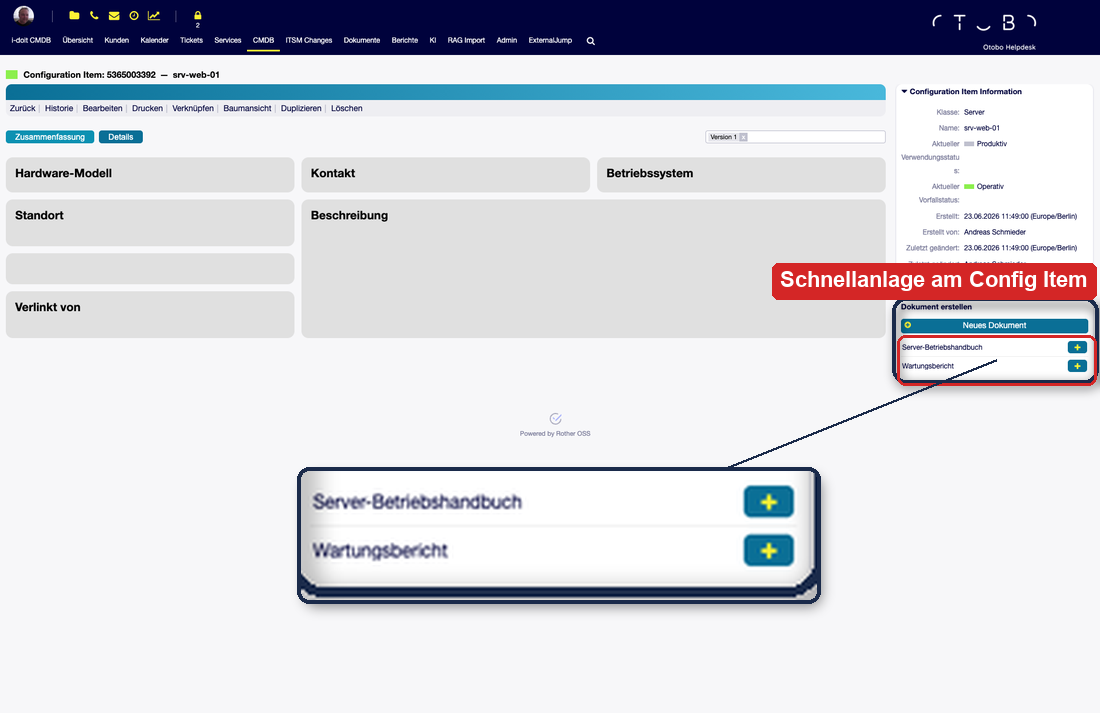
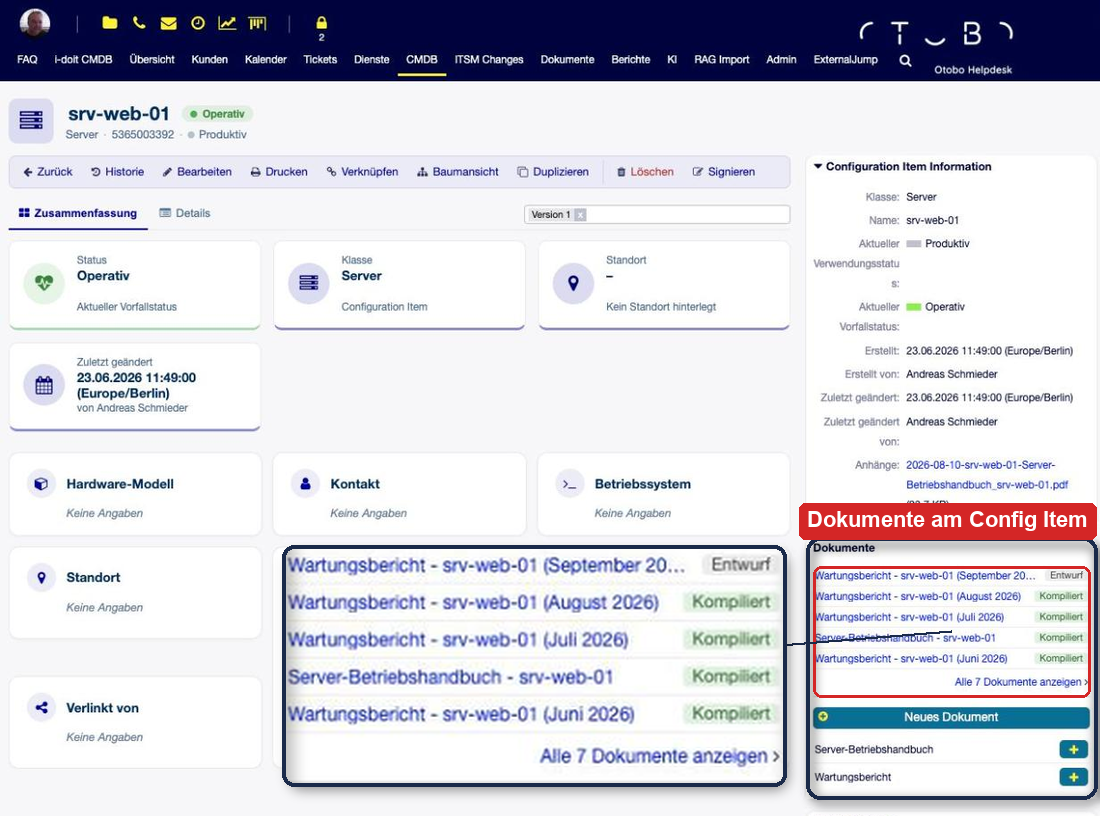
documents: config item widget lists its documents, filtered overview

diff --git a/documents/searchindex.js b/documents/searchindex.js
@@ -1,1 +1,1 @@
-Search.setIndex({"alltitles":{"Admin-Handbuch":[[0,"admin-handbuch"]],"Anwender-Handbuch":[[0,"anwender-handbuch"]],"Berechtigungen und Gruppen":[[0,"berechtigungen-und-gruppen"]],"Beschreibung":[[0,"beschreibung"]],"Einsatzszenarien":[[0,"einsatzszenarien"]],"Framework":[[0,"framework"]],"Installation":[[0,"installation"]],"Kapitel-Editor":[[0,"kapitel-editor"]],"Kategorien verwalten":[[0,"kategorien-verwalten"]],"Kompilieren und Revisionen":[[0,"kompilieren-und-revisionen"]],"Konfiguration":[[0,"konfiguration"]],"Navigation und Dokument\u00fcbersicht":[[0,"navigation-und-dokumentubersicht"]],"Neues Dokument anlegen":[[0,"neues-dokument-anlegen"]],"OTOBO Documents":[[0,null]],"PDF-Erzeugung mit WeasyPrint":[[0,"pdf-erzeugung-mit-weasyprint"]],"Pakete":[[0,"pakete"]],"Platzhalter-Referenz":[[0,"platzhalter-referenz"]],"Platzhalter-System":[[0,"platzhalter-system"]],"Referenz":[[0,"referenz"]],"Schnellanlage aus dem Config Item":[[0,"schnellanlage-aus-dem-config-item"]],"Software von Drittanbietern":[[0,"software-von-drittanbietern"]],"Standard-CI-Klassen zuordnen":[[0,"standard-ci-klassen-zuordnen"]],"Systemvoraussetzungen":[[0,"systemvoraussetzungen"]],"Vorlage anlegen und bearbeiten":[[0,"vorlage-anlegen-und-bearbeiten"]],"Vorschau und PDF-Export":[[0,"vorschau-und-pdf-export"]],"Vorschau und Seitenf\u00fchrung im Editor":[[0,"vorschau-und-seitenfuhrung-im-editor"]],"Zugriff auf die Vorlagenverwaltung":[[0,"zugriff-auf-die-vorlagenverwaltung"]],"\u00dcber":[[0,"uber"]],"\u00dcberblick":[[0,"uberblick"]]},"docnames":["content/index"],"envversion":{"sphinx":66,"sphinx.domains.c":3,"sphinx.domains.changeset":1,"sphinx.domains.citation":1,"sphinx.domains.cpp":9,"sphinx.domains.index":1,"sphinx.domains.javascript":3,"sphinx.domains.math":2,"sphinx.domains.python":4,"sphinx.domains.rst":2,"sphinx.domains.std":2},"filenames":["content/index.rst"],"indexentries":{},"objects":{},"objnames":{},"objtypes":{},"terms":{"Aus":0,"Bei":0,"Das":0,"Den":0,"Der":0,"Die":0,"Diese":0,"Dieser":0,"Dieses":0,"Ein":0,"Eine":0,"Er":0,"Es":0,"Hier":0,"Im":0,"In":0,"Mit":0,"Nach":0,"Sie":0,"So":0,"Wege":0,"Zur":0,"a4":0,"abbruch":0,"abgeleit":0,"abhang":0,"abnahmeprotokoll":0,"abschnitt":0,"addon":0,"administrator":0,"agent":0,"aktion":0,"aktiv":0,"aktull":0,"all":0,"allgemein":0,"alt":0,"alternativ":0,"and":0,"andert":0,"anfass":0,"anfrag":0,"angebund":0,"angelegt":0,"angemeld":0,"anlagemask":0,"anschluss":0,"ansicht":0,"anzeig":0,"anzuleg":0,"api":0,"app":0,"ass":0,"attribut":0,"auffall":0,"aufgebaut":0,"aufgeklappt":0,"aufgelost":0,"aufruf":0,"ausblend":0,"ausdruck":0,"ausgab":0,"ausgegeb":0,"ausgewahlt":0,"ausruck":0,"ausschliess":0,"auswahl":0,"auswahlbar":0,"auswahlbaum":0,"auto":0,"automat":0,"b":0,"backspac":0,"basis":0,"baum":0,"baumhierarchi":0,"baut":0,"befull":0,"beginnt":0,"begrenzt":0,"beim":0,"beispiel":0,"beispieldat":0,"benutzerdefiniert":0,"berechn":0,"bereich":0,"bereit":0,"bereitgestellt":0,"beschrankt":0,"beschreibt":0,"besteh":0,"besteht":0,"betrieb":0,"betriebshandbuch":0,"bevor":0,"biet":0,"bild":0,"bind":0,"bleib":0,"bleibt":0,"blend":0,"breadcrumb":0,"brows":0,"button":0,"byt":0,"bzw":0,"cach":0,"cachettl":0,"changed":0,"check":0,"checkbox":0,"chips":0,"ci00012345":0,"city":0,"ckeditor":0,"class":0,"cm":0,"cmd":0,"cmdb":0,"co":0,"compil":0,"configit":0,"configuration":0,"consol":0,"consulting":0,"contact":0,"contactemail":0,"contactphon":0,"contain":0,"corporat":0,"country":0,"created":0,"curdeplstat":0,"curincistat":0,"custom":0,"customercompanynam":0,"customerid":0,"customerus":0,"dabei":0,"darauf":0,"daraus":0,"dargestellt":0,"dat":0,"databas":0,"dateinam":0,"datengetrieb":0,"datenlag":0,"datenquell":0,"datetim":0,"datum":0,"dauerhaft":0,"day":0,"de":0,"deaktiviert":0,"deckblatt":0,"definiert":0,"demodat":0,"deren":0,"detailansicht":0,"dien":0,"direkt":0,"dock":0,"documents_adm":0,"dokumentenmanagement":0,"dokumentfeld":0,"dokumentvorlag":0,"doppelt":0,"down":0,"download":0,"drag":0,"drei":0,"drill":0,"drop":0,"duplizi":0,"durchklick":0,"durchsuch":0,"dynam":0,"eben":0,"echt":0,"editierbar":0,"einfach":0,"einfug":0,"eingab":0,"eingebett":0,"eingebund":0,"eingefugt":0,"eingericht":0,"einheit":0,"einmalig":0,"einricht":0,"einruck":0,"einsetz":0,"einstell":0,"einstieg":0,"eintrag":0,"einzig":0,"email":0,"empfiehlt":0,"ent":0,"entfern":0,"enthalt":0,"entsteh":0,"entsteht":0,"entwurf":0,"erb":0,"erfolgt":0,"ergeb":0,"ergibt":0,"erhalt":0,"erkennbar":0,"erneut":0,"erreichbar":0,"erreicht":0,"erschein":0,"erscheint":0,"ersetzt":0,"erst":0,"erstell":0,"erstellt":0,"erwart":0,"erweitert":0,"erzeugt":0,"esc":0,"etwa":0,"existiert":0,"exporti":0,"extern":0,"f2":0,"fall":0,"fallt":0,"fancytre":0,"farbig":0,"fassung":0,"fehlerhaft":0,"feld":0,"feldnam":0,"fenst":0,"field":0,"filterfeld":0,"find":0,"folgend":0,"folgt":0,"frag":0,"frei":0,"freicon":0,"freitext":0,"frontend":0,"fruh":0,"funktion":0,"funktioniert":0,"fur":0,"fusszeil":0,"geandert":0,"gekennzeichn":0,"gemeinsam":0,"gemeld":0,"genau":0,"genutzt":0,"geoffn":0,"gepflegt":0,"gepunkt":0,"gerendert":0,"geschweift":0,"gespeichert":0,"geteilt":0,"gewahlt":0,"gilt":0,"gleichzeit":0,"gliedert":0,"gmbh":0,"greif":0,"gultig":0,"gultigkeitspruf":0,"hauptkapitel":0,"hauptmenupunkt":0,"health":0,"heb":0,"heraus":0,"herstell":0,"herunt":0,"hierarch":0,"hierarchi":0,"hinterlegt":0,"hinweg":0,"hinzufug":0,"hochlad":0,"hochwert":0,"html":0,"http":0,"https":0,"id":0,"imm":0,"inhalt":0,"inhaltsverzeichnis":0,"inklusiv":0,"inlin":0,"install":0,"installi":0,"installiert":0,"int":0,"integration":0,"inventarbericht":0,"iso":0,"itsmconfigurationmanagement":0,"je":0,"jed":0,"jeweil":0,"kachel":0,"kapitelbaum":0,"kapitelinhalt":0,"kapitelstruktur":0,"karlsruh":0,"katalog":0,"kategoriebaum":0,"kern":0,"kg":0,"klamm":0,"klappmenu":0,"klassendefinition":0,"klassennam":0,"klein":0,"klick":0,"kodiert":0,"komfortabel":0,"komm":0,"kommentar":0,"kompilier":0,"kompiliert":0,"konkr":0,"konsistent":0,"konsol":0,"kontakt":0,"kopf":0,"kopi":0,"kund":0,"kundenbenutz":0,"kundendat":0,"lad":0,"ladt":0,"lass":0,"lasst":0,"laufend":0,"layout":0,"lebend":0,"lebensdau":0,"ledig":0,"liberation":0,"link":0,"list":0,"liv":0,"local":0,"localhost":0,"location":0,"logo":0,"long":0,"losch":0,"lost":0,"mach":0,"management":0,"manull":0,"markiert":0,"max":0,"maximal":0,"maxreferencedepth":0,"mehr":0,"mehrfachauswahl":0,"meta":0,"modul":0,"momentaufnahm":0,"monitos":0,"month":0,"monthnam":0,"must":0,"musterfirma":0,"mustermann":0,"musterstrass":0,"nachd":0,"nachgelad":0,"nachvollziehbar":0,"nachweis":0,"nam":0,"name_revn":0,"namespac":0,"notation":0,"numb":0,"numm":0,"nummerier":0,"nutz":0,"n\u00e4chster":0,"oben":0,"oberst":0,"objekt":0,"offn":0,"ohn":0,"opm":0,"optional":0,"organisation":0,"otoboversion":0,"packag":0,"pagecount":0,"pagenumb":0,"paketmanag":0,"paketverwalt":0,"passend":0,"passt":0,"pdfs":0,"per":0,"pfleg":0,"pflegbar":0,"pflegt":0,"pflichtfeld":0,"pick":0,"pickerexcludefield":0,"pl":0,"placehold":0,"previewdata":0,"pro":0,"produktiv":0,"professionell":0,"projektgeschaft":0,"prufung":0,"punkt":0,"rand":0,"recht":0,"referencetolocation":0,"referenzkett":0,"regular":0,"rein":0,"reit":0,"rendert":0,"revisionssich":0,"richt":0,"roh":0,"s":0,"san":0,"schliess":0,"schlussel":0,"schon":0,"schreib":0,"schreibgeschutzt":0,"schrift":0,"schriftbild":0,"schrittweis":0,"schulung":0,"seit":0,"seitenaufteil":0,"seitenlayout":0,"seitenleist":0,"seitenumbruch":0,"seitenzahl":0,"sekund":0,"selb":0,"serv":0,"serverseit":0,"servic":0,"servicehandbuch":0,"setting":0,"setzt":0,"sichtbar":0,"sieh":0,"simuli":0,"sitzung":0,"sodass":0,"solang":0,"sollt":0,"sorti":0,"sowi":0,"sowohl":0,"spalt":0,"spat":0,"speich":0,"srv":0,"stamm":0,"stand":0,"standardisi":0,"standardisiert":0,"standardmass":0,"standort":0,"startseit":0,"statisch":0,"statt":0,"status":0,"statusspalt":0,"steckbrief":0,"steh":0,"steuer":0,"steuerbar":0,"steuert":0,"street":0,"strg":0,"strukturi":0,"strukturiert":0,"such":0,"syntax":0,"sysconf":0,"tab":0,"tabell":0,"tast":0,"team":0,"text":0,"textfeld":0,"tief":0,"tim":0,"timeout":0,"tipp":0,"titel":0,"titl":0,"ubergab":0,"ubergabeprotokoll":0,"ubergeb":0,"ubernehm":0,"uberschrieb":0,"uberschrift":0,"ubersicht":0,"umbenenn":0,"umgeb":0,"ungespeichert":0,"ungult":0,"unt":0,"unterkapitel":0,"unterkategori":0,"unterstutzt":0,"unverand":0,"url":0,"us":0,"useremail":0,"userfirstnam":0,"userfullnam":0,"userlastnam":0,"userlogin":0,"usermobil":0,"userphon":0,"utf":0,"verantwort":0,"verfolg":0,"verfug":0,"verfugbar":0,"vergeb":0,"verkett":0,"verknupft":0,"verlass":0,"verpflicht":0,"verschachtelungstief":0,"verschieb":0,"verschied":0,"versionier":0,"versioniert":0,"verteilt":0,"vervollstand":0,"verwaist":0,"verweis":0,"verwend":0,"vollstand":0,"voraus":0,"vorbefullt":0,"vorbelegt":0,"vorbereit":0,"vorgeschlag":0,"vorhand":0,"vorlagenbasiert":0,"vorlageneditor":0,"vorlagenlist":0,"vorlagennam":0,"vorlagentabell":0,"vorlagenubersicht":0,"wahlt":0,"wahrend":0,"warnung":0,"wartung":0,"wartungsbericht":0,"web":0,"wechselt":0,"weekday":0,"weiterhin":0,"wenig":0,"werd":0,"werkzeugleist":0,"wert":0,"widg":0,"wiederkehr":0,"woll":0,"word":0,"wurd":0,"wurzel":0,"wurzelkategori":0,"wysiwyg":0,"x":0,"year":0,"z":0,"zahl":0,"zeich":0,"zeil":0,"zentral":0,"zieh":0,"zip":0,"zugehor":0,"zugeordnet":0,"zuletzt":0,"zuordnung":0,"zurst":0,"zuruck":0,"zusatz":0,"zustand":0,"zwei":0,"zwingend":0,"zwisch":0,"zwischengespeichert":0,"\u00c4nderungen":0},"titles":["OTOBO Documents"],"titleterms":{"admin":0,"anleg":0,"anwend":0,"bearbeit":0,"berecht":0,"beschreib":0,"ci":0,"config":0,"document":0,"dokument":0,"dokumentubersicht":0,"drittanbiet":0,"editor":0,"einsatzszenari":0,"erzeug":0,"export":0,"framework":0,"grupp":0,"handbuch":0,"installation":0,"item":0,"kapitel":0,"kategori":0,"klass":0,"kompili":0,"konfiguration":0,"navigation":0,"neu":0,"otobo":0,"pak":0,"pdf":0,"platzhalt":0,"referenz":0,"revision":0,"schnellanlag":0,"seitenfuhr":0,"softwar":0,"standard":0,"system":0,"systemvoraussetz":0,"uber":0,"uberblick":0,"verwalt":0,"vorlag":0,"vorlagenverwalt":0,"vorschau":0,"weasyprint":0,"zugriff":0,"zuordn":0}})
+Search.setIndex({"alltitles":{"Admin-Handbuch":[[0,"admin-handbuch"]],"Anwender-Handbuch":[[0,"anwender-handbuch"]],"Berechtigungen und Gruppen":[[0,"berechtigungen-und-gruppen"]],"Beschreibung":[[0,"beschreibung"]],"Dokumente am Config Item":[[0,"dokumente-am-config-item"]],"Einsatzszenarien":[[0,"einsatzszenarien"]],"Framework":[[0,"framework"]],"Installation":[[0,"installation"]],"Kapitel-Editor":[[0,"kapitel-editor"]],"Kategorien verwalten":[[0,"kategorien-verwalten"]],"Kompilieren und Revisionen":[[0,"kompilieren-und-revisionen"]],"Konfiguration":[[0,"konfiguration"]],"Navigation und Dokument\u00fcbersicht":[[0,"navigation-und-dokumentubersicht"]],"Neues Dokument anlegen":[[0,"neues-dokument-anlegen"]],"OTOBO Documents":[[0,null]],"PDF-Erzeugung mit WeasyPrint":[[0,"pdf-erzeugung-mit-weasyprint"]],"Pakete":[[0,"pakete"]],"Platzhalter-Referenz":[[0,"platzhalter-referenz"]],"Platzhalter-System":[[0,"platzhalter-system"]],"Referenz":[[0,"referenz"]],"Software von Drittanbietern":[[0,"software-von-drittanbietern"]],"Standard-CI-Klassen zuordnen":[[0,"standard-ci-klassen-zuordnen"]],"Systemvoraussetzungen":[[0,"systemvoraussetzungen"]],"Vorlage anlegen und bearbeiten":[[0,"vorlage-anlegen-und-bearbeiten"]],"Vorschau und PDF-Export":[[0,"vorschau-und-pdf-export"]],"Vorschau und Seitenf\u00fchrung im Editor":[[0,"vorschau-und-seitenfuhrung-im-editor"]],"Zugriff auf die Vorlagenverwaltung":[[0,"zugriff-auf-die-vorlagenverwaltung"]],"\u00dcber":[[0,"uber"]],"\u00dcberblick":[[0,"uberblick"]]},"docnames":["content/index"],"envversion":{"sphinx":66,"sphinx.domains.c":3,"sphinx.domains.changeset":1,"sphinx.domains.citation":1,"sphinx.domains.cpp":9,"sphinx.domains.index":1,"sphinx.domains.javascript":3,"sphinx.domains.math":2,"sphinx.domains.python":4,"sphinx.domains.rst":2,"sphinx.domains.std":2},"filenames":["content/index.rst"],"indexentries":{},"objects":{},"objnames":{},"objtypes":{},"terms":{"Aus":0,"Bei":0,"Damit":0,"Das":0,"Den":0,"Der":0,"Die":0,"Diese":0,"Dieser":[],"Dieses":0,"Ein":0,"Eine":0,"Er":0,"Es":0,"Hier":0,"Ihrem":0,"Im":0,"In":0,"Mit":0,"Nach":0,"Sie":0,"Sind":0,"So":[],"Weg":0,"Wege":0,"Zur":0,"a4":0,"abbruch":0,"abgeleit":0,"abhang":0,"abnahmeprotokoll":0,"abschnitt":0,"addon":0,"administrator":0,"agent":0,"aktion":0,"aktiv":0,"aktull":0,"all":0,"allgemein":0,"alt":0,"alternativ":0,"and":0,"andert":0,"anfass":0,"anfrag":0,"angebund":0,"angelegt":0,"angemeld":0,"anlag":0,"anlagemask":0,"anschluss":0,"ansicht":0,"anzeig":0,"anzuleg":0,"api":0,"app":0,"ass":0,"attribut":0,"auffall":0,"aufgebaut":0,"aufgeklappt":0,"aufgelost":0,"aufgesetzt":0,"aufruf":0,"ausblend":0,"ausdruck":0,"ausgab":0,"ausgegeb":0,"ausgewahlt":0,"ausruck":0,"ausschliess":0,"auswahl":0,"auswahlbar":0,"auswahlbaum":0,"auto":0,"automat":0,"b":0,"backspac":0,"basis":0,"baum":0,"baumhierarchi":0,"baut":0,"beantwort":0,"befull":0,"beginnt":0,"begrenzt":0,"beid":0,"beim":0,"beispiel":0,"beispieldat":0,"benutzerdefiniert":0,"berechn":0,"bereich":0,"bereit":0,"bereitgestellt":0,"beschrankt":0,"beschreibt":0,"besteh":0,"besteht":0,"betrieb":0,"betriebshandbuch":0,"bevor":0,"biet":0,"bild":0,"bind":0,"bleib":0,"bleibt":0,"blend":0,"blick":0,"breadcrumb":0,"brows":0,"button":0,"byt":0,"bzw":0,"cach":0,"cachettl":0,"changed":0,"check":0,"checkbox":0,"chips":0,"ci00012345":0,"city":0,"ciwidg":0,"ckeditor":0,"class":0,"cm":0,"cmd":0,"cmdb":0,"co":0,"compil":0,"configit":0,"configuration":0,"consol":0,"consulting":0,"contact":0,"contactemail":0,"contactphon":0,"contain":0,"corporat":0,"country":0,"created":0,"curdeplstat":0,"curincistat":0,"custom":0,"customercompanynam":0,"customerid":0,"customerus":0,"dabei":0,"darauf":0,"daraus":0,"dargestellt":0,"darunt":0,"dasselb":0,"dat":0,"databas":0,"dateinam":0,"datengetrieb":0,"datenlag":0,"datenquell":0,"datetim":0,"datum":0,"dauerhaft":0,"day":0,"de":0,"deaktiviert":0,"deckblatt":0,"definiert":0,"demodat":0,"deren":0,"detailansicht":0,"dien":0,"direkt":0,"dock":0,"documents_adm":0,"dokumentenmanagement":0,"dokumentfeld":0,"dokumentvorlag":0,"doppelt":0,"down":0,"download":0,"drag":0,"drei":0,"drill":0,"drop":0,"duplizi":0,"durchklick":0,"durchsuch":0,"dynam":0,"eben":0,"echt":0,"editierbar":0,"einfach":0,"einfug":0,"eingab":0,"eingebett":0,"eingebund":0,"eingefugt":0,"eingericht":0,"einheit":0,"einmalig":0,"einricht":0,"einruck":0,"einsetz":0,"einstell":0,"einstellbar":0,"einstieg":0,"eintrag":0,"einzig":0,"email":0,"empfiehlt":0,"ent":0,"entfern":0,"enthalt":0,"entsteh":0,"entsteht":0,"entwurf":0,"erb":0,"erfolgt":0,"ergeb":0,"ergibt":0,"erhalt":0,"erkennbar":0,"erneut":0,"erreichbar":0,"erreicht":0,"erschein":0,"erscheint":0,"ersetzt":0,"erst":0,"erstell":[],"erstellt":0,"erwart":0,"erweitert":0,"erzeugt":0,"esc":0,"etwa":0,"existiert":0,"exporti":0,"extern":0,"f2":0,"fall":0,"fallt":0,"fancytre":0,"farbig":0,"fassung":0,"fehlerhaft":0,"fehlermeld":0,"feld":0,"feldnam":0,"fenst":0,"field":0,"filt":0,"filterfeld":0,"find":0,"folgend":0,"folgt":0,"frag":0,"frei":0,"freicon":0,"freitext":0,"frisch":0,"frontend":0,"fruh":0,"fuhrt":0,"funf":0,"funktion":0,"funktioniert":0,"fur":0,"fusszeil":0,"geandert":0,"gefiltert":0,"gekennzeichn":0,"gemeinsam":0,"gemeld":0,"genau":0,"genutzt":0,"geoffn":0,"gepflegt":0,"gepunkt":0,"gerendert":0,"geschweift":0,"gespeichert":0,"geteilt":0,"gewahlt":0,"gibt":0,"gilt":0,"gleichzeit":0,"gliedert":0,"gmbh":0,"greif":0,"gultig":0,"gultigkeitspruf":0,"hauptkapitel":0,"hauptmenupunkt":0,"health":0,"heb":0,"heiss":0,"heraus":[],"herstell":0,"herunt":0,"hierarch":0,"hierarchi":0,"hinterlegt":0,"hinweg":0,"hinweis":0,"hinzufug":0,"hochlad":0,"hochstzahl":0,"hochwert":0,"html":0,"http":0,"https":0,"id":0,"imm":0,"inhalt":0,"inhaltsverzeichnis":0,"inklusiv":0,"inlin":0,"install":0,"installi":0,"installiert":0,"int":0,"integration":0,"inventarbericht":0,"iso":0,"itsmconfigurationmanagement":0,"je":0,"jed":0,"jeweil":0,"kachel":0,"kapitelbaum":0,"kapitelinhalt":0,"kapitelstruktur":0,"karlsruh":0,"katalog":0,"kategoriebaum":0,"kern":0,"kg":0,"klamm":0,"klappmenu":0,"klassendefinition":0,"klassennam":0,"klein":0,"klick":0,"kodiert":0,"komfortabel":0,"komm":0,"kommentar":0,"kompakt":0,"kompilier":0,"kompiliert":0,"konkr":[],"konsistent":0,"konsol":0,"kontakt":0,"kopf":0,"kopi":0,"kund":0,"kundenbenutz":0,"kundendat":0,"kurz":0,"lad":0,"ladt":0,"lass":0,"lasst":0,"laufend":0,"lauft":0,"layout":0,"lebend":0,"lebensdau":0,"ledig":0,"leer":0,"liberation":0,"link":0,"list":0,"liv":0,"local":0,"localhost":0,"location":0,"logo":0,"long":0,"losch":0,"lost":0,"mach":0,"management":0,"manull":0,"markiert":0,"max":0,"maxdocument":0,"maximal":0,"maxreferencedepth":0,"mehr":0,"mehrfachauswahl":0,"meta":0,"mitgeliefert":0,"modul":0,"momentaufnahm":0,"monitos":0,"month":0,"monthnam":0,"must":0,"musterfirma":0,"mustermann":0,"musterstrass":0,"n":0,"nachd":0,"nachgelad":0,"nachvollziehbar":0,"nachweis":0,"nam":0,"name_revn":0,"namespac":0,"notation":0,"numb":0,"numm":0,"nummerier":0,"nutz":0,"n\u00e4chster":0,"oben":0,"oberst":0,"objekt":0,"offn":0,"ohn":0,"opm":0,"optional":0,"organisation":0,"otoboversion":0,"packag":0,"pagecount":0,"pagenumb":0,"paketmanag":0,"paketverwalt":0,"passend":0,"passt":0,"pdfs":0,"per":0,"pfleg":0,"pflegbar":0,"pflegt":0,"pflichtfeld":0,"pick":0,"pickerexcludefield":0,"pl":0,"placehold":0,"previewdata":0,"pro":0,"produktiv":0,"professionell":0,"projektgeschaft":0,"prufung":0,"punkt":0,"rand":0,"recht":0,"referencetolocation":0,"referenzkett":0,"regular":0,"rein":0,"reit":0,"rendert":0,"revisionssich":0,"richt":0,"roh":0,"s":0,"san":0,"schliess":0,"schlussel":0,"schon":0,"schreib":0,"schreibgeschutzt":0,"schrift":0,"schriftbild":0,"schrittweis":0,"schulung":0,"seit":0,"seitenaufteil":0,"seitenlayout":0,"seitenleist":0,"seitenumbruch":0,"seitenzahl":0,"sekund":0,"selb":0,"serv":0,"serverseit":0,"servic":0,"servicehandbuch":0,"setting":0,"setzt":0,"sichtbar":0,"sieh":0,"simuli":0,"sitzung":0,"sodass":0,"solang":0,"sollt":0,"sorti":0,"sowi":0,"sowohl":0,"spalt":0,"spat":0,"speich":0,"srv":0,"stamm":0,"stand":0,"standardisi":0,"standardisiert":0,"standardmass":0,"standort":0,"startseit":0,"statisch":0,"statt":0,"status":0,"statusspalt":0,"steckbrief":0,"steh":0,"steht":0,"steuer":0,"steuerbar":0,"steuert":0,"street":0,"strg":0,"strukturi":0,"strukturiert":0,"such":0,"syntax":0,"sysconf":0,"tab":0,"tabell":0,"tast":0,"team":0,"text":0,"textfeld":0,"tief":0,"tim":0,"timeout":0,"tipp":0,"titel":0,"titl":0,"trag":0,"ubergab":0,"ubergabeprotokoll":0,"ubergeb":0,"ubernehm":0,"uberschrieb":0,"uberschrift":0,"ubersicht":0,"umbenenn":0,"umgeb":0,"ungespeichert":0,"ungult":0,"unt":0,"unterkapitel":0,"unterkategori":0,"unterstutzt":0,"unverand":0,"url":0,"us":0,"useremail":0,"userfirstnam":0,"userfullnam":0,"userlastnam":0,"userlogin":0,"usermobil":0,"userphon":0,"utf":0,"verantwort":0,"verfolg":0,"verfug":0,"verfugbar":0,"vergeb":0,"verkett":0,"verknupft":0,"verlass":0,"verpflicht":0,"verschachtelungstief":0,"verschieb":0,"verschied":0,"version":0,"versionier":0,"versioniert":0,"verteilt":0,"vervollstand":0,"verwaist":0,"verweis":0,"verwend":0,"vielen":0,"vollstand":0,"voraus":0,"vorbefullt":0,"vorbelegt":0,"vorbereit":0,"vorgeschlag":0,"vorhand":0,"vorlagenbasiert":0,"vorlageneditor":0,"vorlagenlist":0,"vorlagennam":0,"vorlagentabell":0,"vorlagenubersicht":0,"vorschlag":0,"wahlt":0,"wahrend":0,"warnung":0,"wartung":0,"wartungsbericht":0,"web":0,"wechselt":0,"weekday":0,"weit":0,"weiterhin":0,"welch":0,"wenig":0,"werd":0,"werkzeugleist":0,"wert":0,"widg":0,"wiederkehr":0,"wirklich":0,"woll":0,"word":0,"wurd":0,"wurzel":0,"wurzelkategori":0,"wysiwyg":0,"x":0,"year":0,"z":0,"zahl":0,"zeich":0,"zeigt":0,"zeil":0,"zentral":0,"zieh":0,"zip":0,"zugehor":0,"zugeordnet":0,"zuletzt":0,"zuordnung":0,"zurst":0,"zuruck":0,"zusatz":0,"zustand":0,"zwei":0,"zwingend":0,"zwisch":0,"zwischengespeichert":0,"\u00c4nderungen":0},"titles":["OTOBO Documents"],"titleterms":{"admin":0,"anleg":0,"anwend":0,"bearbeit":0,"berecht":0,"beschreib":0,"ci":0,"config":0,"document":0,"dokument":0,"dokumentubersicht":0,"drittanbiet":0,"editor":0,"einsatzszenari":0,"erzeug":0,"export":0,"framework":0,"grupp":0,"handbuch":0,"installation":0,"item":0,"kapitel":0,"kategori":0,"klass":0,"kompili":0,"konfiguration":0,"navigation":0,"neu":0,"otobo":0,"pak":0,"pdf":0,"platzhalt":0,"referenz":0,"revision":0,"schnellanlag":[],"seitenfuhr":0,"softwar":0,"standard":0,"system":0,"systemvoraussetz":0,"uber":0,"uberblick":0,"verwalt":0,"vorlag":0,"vorlagenverwalt":0,"vorschau":0,"weasyprint":0,"zugriff":0,"zuordn":0}})

diff --git a/documents/content/index.html b/documents/content/index.html
@@ -255,8 +255,8 @@ Kapitelbaum, Drag &amp; Drop und Live-Seitenführung.</p></li>
 <li><p><strong>PDF-Export:</strong> Hochwertige PDFs mit Deckblatt, Kopf-/Fußzeilen und Seitenzahlen,
 erzeugt über WeasyPrint.</p></li>
 <li><p><strong>Revisionssicher:</strong> Jede Kompilierung erzeugt eine unveränderliche, versionierte Fassung.</p></li>
-<li><p><strong>Schnellanlage aus dem CI:</strong> Direkt aus der Config-Item-Ansicht lässt sich mit einem Klick
-ein passendes Dokument erzeugen.</p></li>
+<li><p><strong>Dokumente am Config Item:</strong> Die Config-Item-Ansicht zeigt die vorhandenen Dokumente des
+CI und erzeugt mit einem Klick ein passendes neues.</p></li>
 </ul>
 </section>
 <section id="einsatzszenarien">
@@ -278,7 +278,7 @@ Kopien.</p>
 <h1>Systemvoraussetzungen<a class="headerlink" href="#systemvoraussetzungen" title="Link to this heading">¶</a></h1>
 <section id="framework">
 <h2>Framework<a class="headerlink" href="#framework" title="Link to this heading">¶</a></h2>
-<p>OTOBO 11.0.x</p>
+<p>OTOBO 11.0.x und 11.1.x – dasselbe Paket läuft auf beiden Versionen.</p>
 </section>
 <section id="pakete">
 <h2>Pakete<a class="headerlink" href="#pakete" title="Link to this heading">¶</a></h2>
@@ -306,7 +306,7 @@ mit dem Addon bereitgestellt und über die SysConfig angebunden.</p>
 <ul class="simple">
 <li><p><a class="reference internal" href="#navigation-und-dokumentubersicht"><span class="std std-ref">Navigation und Dokumentübersicht</span></a></p></li>
 <li><p><a class="reference internal" href="#neues-dokument-anlegen"><span class="std std-ref">Neues Dokument anlegen</span></a></p></li>
-<li><p><a class="reference internal" href="#schnellanlage-aus-dem-config-item"><span class="std std-ref">Schnellanlage aus dem Config Item</span></a></p></li>
+<li><p><a class="reference internal" href="#dokumente-am-config-item"><span class="std std-ref">Dokumente am Config Item</span></a></p></li>
 <li><p><a class="reference internal" href="#kompilieren-und-revisionen"><span class="std std-ref">Kompilieren und Revisionen</span></a></p></li>
 <li><p><a class="reference internal" href="#vorschau-und-pdf-export"><span class="std std-ref">Vorschau und PDF-Export</span></a></p></li>
 </ul>
@@ -367,28 +367,40 @@ sein (siehe nächster Abschnitt), damit der PDF-Export funktioniert.</p>
 <td><p><code class="docutils literal notranslate"><span class="pre">30</span></code></p></td>
 <td><p>Timeout für Anfragen an WeasyPrint (Sekunden).</p></td>
 </tr>
-<tr class="row-even"><td><p><code class="docutils literal notranslate"><span class="pre">Documents###Placeholder###MaxReferenceDepth</span></code></p></td>
+<tr class="row-even"><td><p><code class="docutils literal notranslate"><span class="pre">Documents###Frontend###CIWidget###MaxDocuments</span></code></p></td>
+<td><p><code class="docutils literal notranslate"><span class="pre">5</span></code></p></td>
+<td><p>Höchstzahl der Dokumente im Widget <strong>„Dokumente“</strong> der Config-Item-Ansicht; weitere
+erreicht man über den Link in die gefilterte Dokumentübersicht.</p></td>
+</tr>
+<tr class="row-odd"><td><p><code class="docutils literal notranslate"><span class="pre">Documents###Placeholder###MaxReferenceDepth</span></code></p></td>
 <td><p><code class="docutils literal notranslate"><span class="pre">3</span></code></p></td>
 <td><p>Maximale Tiefe für verkettete Referenz-Platzhalter (Punkt-Notation).</p></td>
 </tr>
-<tr class="row-odd"><td><p><code class="docutils literal notranslate"><span class="pre">Documents###Placeholder###CacheTTL</span></code></p></td>
+<tr class="row-even"><td><p><code class="docutils literal notranslate"><span class="pre">Documents###Placeholder###CacheTTL</span></code></p></td>
 <td><p><code class="docutils literal notranslate"><span class="pre">86400</span></code></p></td>
 <td><p>Cache-Lebensdauer des aus der CMDB abgeleiteten Platzhalter-Katalogs in Sekunden (<code class="docutils literal notranslate"><span class="pre">0</span></code> = aus).</p></td>
 </tr>
-<tr class="row-even"><td><p><code class="docutils literal notranslate"><span class="pre">Documents###Placeholder###PickerExcludeFields</span></code></p></td>
+<tr class="row-odd"><td><p><code class="docutils literal notranslate"><span class="pre">Documents###Placeholder###PickerExcludeFields</span></code></p></td>
 <td><p><code class="docutils literal notranslate"><span class="pre">[^monitos]</span></code></p></td>
 <td><p>Reguläre Ausdrücke, die dynamische Felder <strong>nur im Picker</strong> ausblenden (der Compiler löst sie weiterhin auf).</p></td>
 </tr>
-<tr class="row-odd"><td><p><code class="docutils literal notranslate"><span class="pre">Documents###PreviewData###Customer###*</span></code></p></td>
+<tr class="row-even"><td><p><code class="docutils literal notranslate"><span class="pre">Documents###PreviewData###Customer###*</span></code></p></td>
 <td><p>Musterfirma GmbH, Max Mustermann, Musterstraße 42, 76131, Karlsruhe</p></td>
 <td><p>Beispieldaten für die Vorlagen-Vorschau (Kunde).</p></td>
 </tr>
-<tr class="row-even"><td><p><code class="docutils literal notranslate"><span class="pre">Documents###PreviewData###ConfigItem###*</span></code></p></td>
+<tr class="row-odd"><td><p><code class="docutils literal notranslate"><span class="pre">Documents###PreviewData###ConfigItem###*</span></code></p></td>
 <td><p>SRV-APP-001, Server, CI00012345</p></td>
 <td><p>Beispieldaten für die Vorlagen-Vorschau (Config Item).</p></td>
 </tr>
 </tbody>
 </table>
+</div>
+<div class="admonition note">
+<p class="admonition-title">Bemerkung</p>
+<p><code class="docutils literal notranslate"><span class="pre">Documents###PreviewData###ConfigItem###Class</span></code> ist mit <code class="docutils literal notranslate"><span class="pre">Server</span></code> vorbelegt. Existiert
+diese CI-Klasse auf dem System nicht – in einem frisch aufgesetzten OTOBO 11.1 heißen die
+mitgelieferten Klassen anders –, bleibt die <strong>Vorschau im Vorlagen-Editor leer, ohne
+Fehlermeldung</strong>. Tragen Sie dort eine Klasse ein, die es auf Ihrem System wirklich gibt.</p>
 </div>
 </section>
 <section id="admin-handbuch">
@@ -486,14 +498,14 @@ duplizieren – inklusive aller Kapitel und ihrer Hierarchie.</p>
 <h2>Standard-CI-Klassen zuordnen<a class="headerlink" href="#standard-ci-klassen-zuordnen" title="Link to this heading">¶</a></h2>
 <p>Über das Feld <strong>CI-Klassen</strong> im Reiter <em>Allgemein</em> wird eine Vorlage einer oder mehreren
 Config-Item-Klassen zugeordnet (z. B. <em>Server</em>, <em>Anwendung</em>). Diese Zuordnung steuert die
-<a class="reference internal" href="#schnellanlage-aus-dem-config-item"><span class="std std-ref">Schnellanlage aus dem Config Item</span></a>: Beim Aufruf eines Config Items
+<a class="reference internal" href="#dokumente-am-config-item"><span class="std std-ref">Dokumente am Config Item</span></a>: Beim Aufruf eines Config Items
 werden in der Seitenleiste genau die Vorlagen vorgeschlagen, deren Standard-Klasse zur
 Klasse des Config Items passt.</p>
 <figure class="align-center" id="id5">
 <a class="reference internal image-reference" href="../_images/template-classes.png"><img alt="../_images/template-classes.png" src="../_images/template-classes.png" style="width: 100%;" />
 </a>
 <figcaption>
-<p><span class="caption-number">Abb. 5 </span><span class="caption-text">Über <em>Standard-CI-Klassen</em> wird die Vorlage einer CI-Klasse zugeordnet – die Basis der Schnellanlage.</span><a class="headerlink" href="#id5" title="Link to this image">¶</a></p>
+<p><span class="caption-number">Abb. 5 </span><span class="caption-text">Über <em>Standard-CI-Klassen</em> wird die Vorlage einer CI-Klasse zugeordnet – die Basis der Vorschläge am Config Item.</span><a class="headerlink" href="#id5" title="Link to this image">¶</a></p>
 </figcaption>
 </figure>
 </section>
@@ -636,26 +648,41 @@ Platzhalter aufgelöst werden.</p></li>
 <p>Nach dem Speichern wird das Dokument im Status <em>Entwurf</em> angelegt und die Detailansicht
 geöffnet.</p>
 </section>
-<section id="schnellanlage-aus-dem-config-item">
-<h2>Schnellanlage aus dem Config Item<a class="headerlink" href="#schnellanlage-aus-dem-config-item" title="Link to this heading">¶</a></h2>
+<section id="dokumente-am-config-item">
+<h2>Dokumente am Config Item<a class="headerlink" href="#dokumente-am-config-item" title="Link to this heading">¶</a></h2>
 <p>In der <strong>Config-Item-Detailansicht</strong> (CMDB) erscheint in der Seitenleiste das Widget
-<strong>„Dokument erstellen“</strong>. Es bietet:</p>
+<strong>„Dokumente“</strong>. Es beantwortet zwei Fragen auf einen Blick – welche Dokumente es zu diesem
+Config Item schon gibt, und welches sich neu anlegen lässt:</p>
 <ul class="simple">
-<li><p>einen allgemeinen Button <strong>„Neues Dokument“</strong>, der die Anlagemaske mit dem aktuellen
-Config Item vorbefüllt öffnet,</p></li>
-<li><p>falls für die Klasse des Config Items Standard-Vorlagen hinterlegt sind, eine Liste dieser
-Vorlagen mit jeweils einem <code class="docutils literal notranslate"><span class="pre">+</span></code>-Button. Dieser öffnet die Anlagemaske direkt mit gewählter
-Vorlage, verknüpftem Config Item und vorbelegtem Titel („Vorlagenname – CI-Name“).</p></li>
+<li><p><strong>Vorhandene Dokumente:</strong> die zuletzt bearbeiteten Dokumente des Config Items, jeweils mit
+ihrem Status (<em>Entwurf</em> oder <em>Kompiliert</em>). Ein Klick auf den Namen öffnet das Dokument.
+Gibt es noch keines, steht dort ein kurzer Hinweis.</p></li>
+<li><p><strong>„Neues Dokument“</strong> öffnet die Anlagemaske mit dem aktuellen Config Item vorbefüllt.</p></li>
+<li><p><strong>Passende Vorlagen:</strong> Sind für die Klasse des Config Items Standard-Vorlagen hinterlegt,
+folgt eine Liste dieser Vorlagen mit jeweils einem <code class="docutils literal notranslate"><span class="pre">+</span></code>-Button. Er öffnet die Anlagemaske
+direkt mit gewählter Vorlage, verknüpftem Config Item und vorbelegtem Titel
+(„Vorlagenname – CI-Name“).</p></li>
 </ul>
 <figure class="align-center" id="id12">
 <a class="reference internal image-reference" href="../_images/ci-quick-create.png"><img alt="../_images/ci-quick-create.png" src="../_images/ci-quick-create.png" style="width: 100%;" />
 </a>
 <figcaption>
-<p><span class="caption-number">Abb. 12 </span><span class="caption-text">Schnellanlage direkt aus dem Config Item – vorgeschlagen werden die zur CI-Klasse passenden Vorlagen.</span><a class="headerlink" href="#id12" title="Link to this image">¶</a></p>
+<p><span class="caption-number">Abb. 12 </span><span class="caption-text">Das Widget „Dokumente“ am Config Item: die neuesten Dokumente mit Status, darunter die Anlage aus den passenden Vorlagen.</span><a class="headerlink" href="#id12" title="Link to this image">¶</a></p>
 </figcaption>
 </figure>
-<p>So lässt sich aus einem konkreten Config Item heraus mit einem Klick das passende Dokument
-erzeugen.</p>
+<p>Damit das Widget auch bei vielen Dokumenten kompakt bleibt, zeigt es nur die neuesten fünf
+(einstellbar über <code class="docutils literal notranslate"><span class="pre">Documents###Frontend###CIWidget###MaxDocuments</span></code>, siehe
+<a class="reference internal" href="#konfiguration"><span class="std std-ref">Konfiguration</span></a>). Sind es mehr, führt der Link <strong>„Alle N Dokumente
+anzeigen“</strong> in die Dokumentübersicht – gefiltert auf dieses Config Item. Ein Hinweis über
+der Tabelle zeigt den Filter an und bietet den Weg zurück zum Config Item oder zu allen
+Dokumenten.</p>
+<figure class="align-center" id="id13">
+<a class="reference internal image-reference" href="../_images/document-list-filtered.png"><img alt="../_images/document-list-filtered.png" src="../_images/document-list-filtered.png" style="width: 100%;" />
+</a>
+<figcaption>
+<p><span class="caption-number">Abb. 13 </span><span class="caption-text">Die Dokumentübersicht, gefiltert auf ein Config Item.</span><a class="headerlink" href="#id13" title="Link to this image">¶</a></p>
+</figcaption>
+</figure>
 </section>
 <section id="kompilieren-und-revisionen">
 <h2>Kompilieren und Revisionen<a class="headerlink" href="#kompilieren-und-revisionen" title="Link to this heading">¶</a></h2>
@@ -666,11 +693,11 @@ werden. Mit der ersten Kompilierung wechselt der Status von <em>Entwurf</em> auf
 <p>Jede Revision ist eine <strong>unveränderliche Momentaufnahme</strong>. Das Revisions-Widget listet alle
 Fassungen (Nummer, Kommentar, Erstellt von, Datum, PDF-Download), neueste zuerst. Ein Klick
 auf eine Zeile lädt die jeweilige Fassung in die Vorschau.</p>
-<figure class="align-center" id="id13">
+<figure class="align-center" id="id14">
 <a class="reference internal image-reference" href="../_images/document-revisions.png"><img alt="../_images/document-revisions.png" src="../_images/document-revisions.png" style="width: 100%;" />
 </a>
 <figcaption>
-<p><span class="caption-number">Abb. 13 </span><span class="caption-text">Dokument-Detailansicht mit Revisions-Widget und eingebetteter PDF-Vorschau.</span><a class="headerlink" href="#id13" title="Link to this image">¶</a></p>
+<p><span class="caption-number">Abb. 14 </span><span class="caption-text">Dokument-Detailansicht mit Revisions-Widget und eingebetteter PDF-Vorschau.</span><a class="headerlink" href="#id14" title="Link to this image">¶</a></p>
 </figcaption>
 </figure>
 <div class="admonition note">
@@ -690,11 +717,11 @@ anzulegen. Die Anzeige ist mit „Aktueller Stand (Live)“ gekennzeichnet.</p><
 <li><p><strong>PDF exportieren</strong> – lädt die gewählte Revision als PDF herunter
 (Dateiname <code class="docutils literal notranslate"><span class="pre">Name_RevN.pdf</span></code>). Solange keine Revision existiert, ist der Export deaktiviert.</p></li>
 </ul>
-<figure class="align-center" id="id14">
+<figure class="align-center" id="id15">
 <a class="reference internal image-reference" href="../_images/pdf-preview.png"><img alt="../_images/pdf-preview.png" src="../_images/pdf-preview.png" style="width: 100%;" />
 </a>
 <figcaption>
-<p><span class="caption-number">Abb. 14 </span><span class="caption-text">Live-Vorschau des aktuellen Stands; der Export als PDF erfolgt je Revision.</span><a class="headerlink" href="#id14" title="Link to this image">¶</a></p>
+<p><span class="caption-number">Abb. 15 </span><span class="caption-text">Live-Vorschau des aktuellen Stands; der Export als PDF erfolgt je Revision.</span><a class="headerlink" href="#id15" title="Link to this image">¶</a></p>
 </figcaption>
 </figure>
 </section>
@@ -726,8 +753,8 @@ für ein einheitliches Schriftbild, laufende Kopf-/Fußzeilen und Seitenzahl-Zä
 <li><p>Die <strong>Vorlagenverwaltung</strong> (Admin) ist auf die Gruppe <code class="docutils literal notranslate"><span class="pre">admin</span></code> beschränkt. Bei der
 Installation wird zusätzlich die Gruppe <code class="docutils literal notranslate"><span class="pre">documents_adm</span></code> angelegt.</p></li>
 <li><p>Die <strong>Dokumentübersicht</strong> der Agenten ist für alle angemeldeten Agenten sichtbar.</p></li>
-<li><p>Das <strong>Schnellanlage-Widget</strong> erscheint an jedem Config Item; die vorgeschlagene
-Vorlagenliste richtet sich nach der Klasse des Config Items.</p></li>
+<li><p>Das Widget <strong>„Dokumente“</strong> erscheint an jedem Config Item; es listet die Dokumente dieses
+Config Items, die vorgeschlagene Vorlagenliste richtet sich nach seiner Klasse.</p></li>
 </ul>
 </section>
 <section id="platzhalter-referenz">
